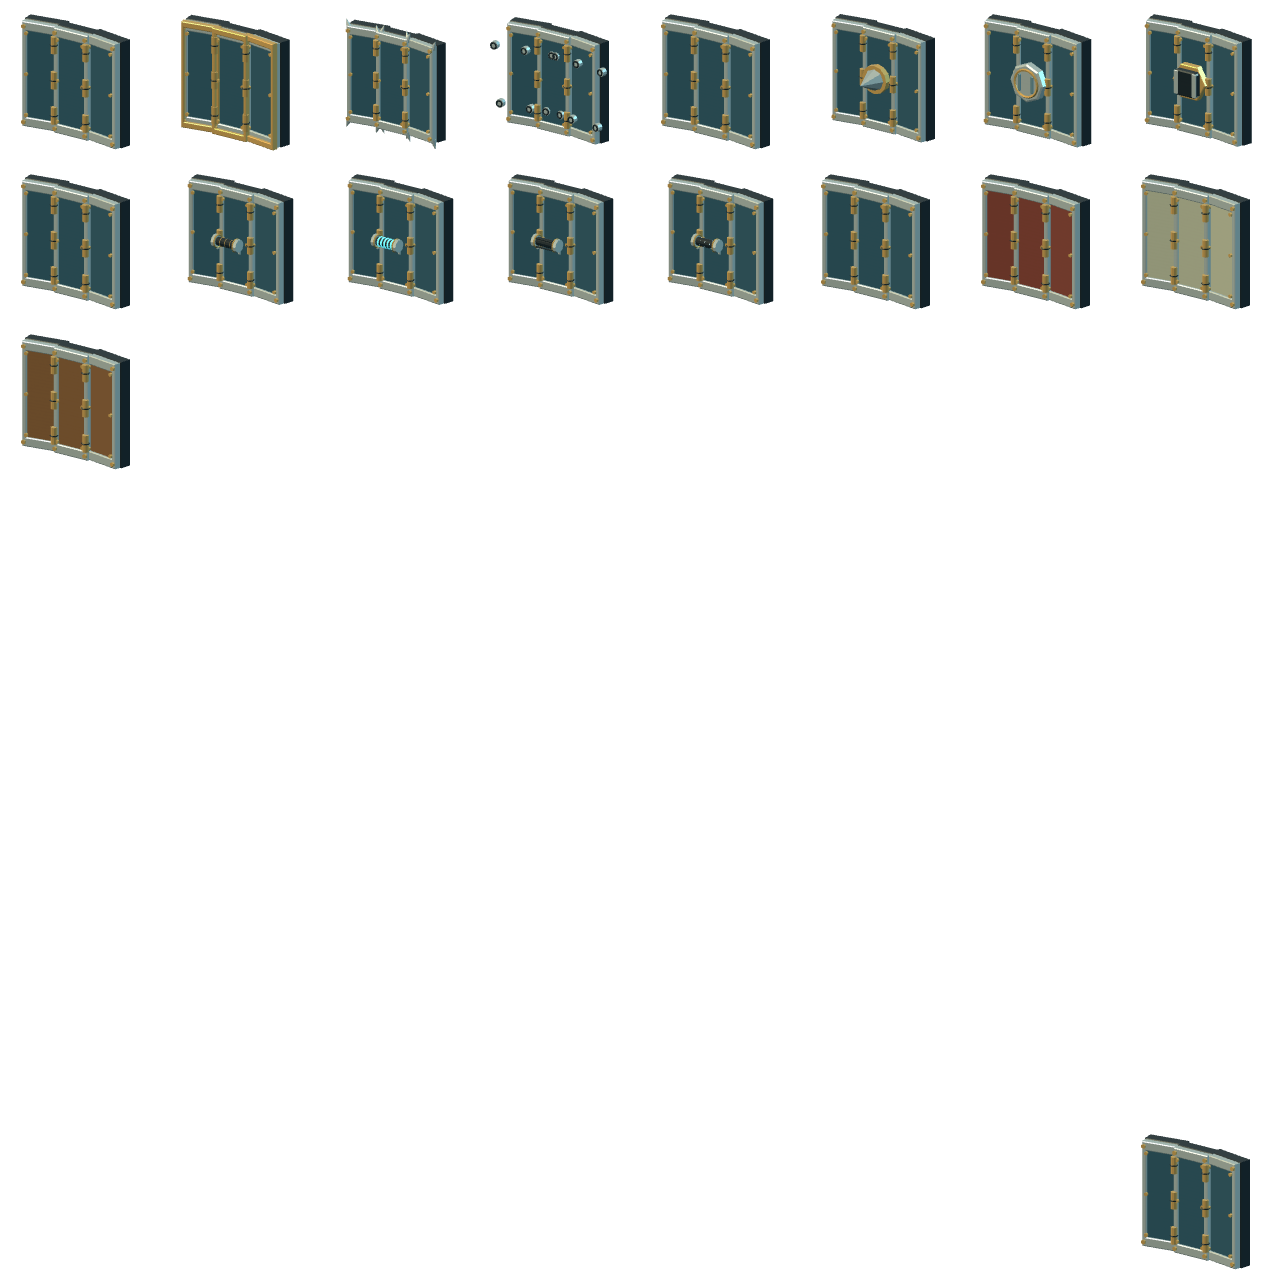
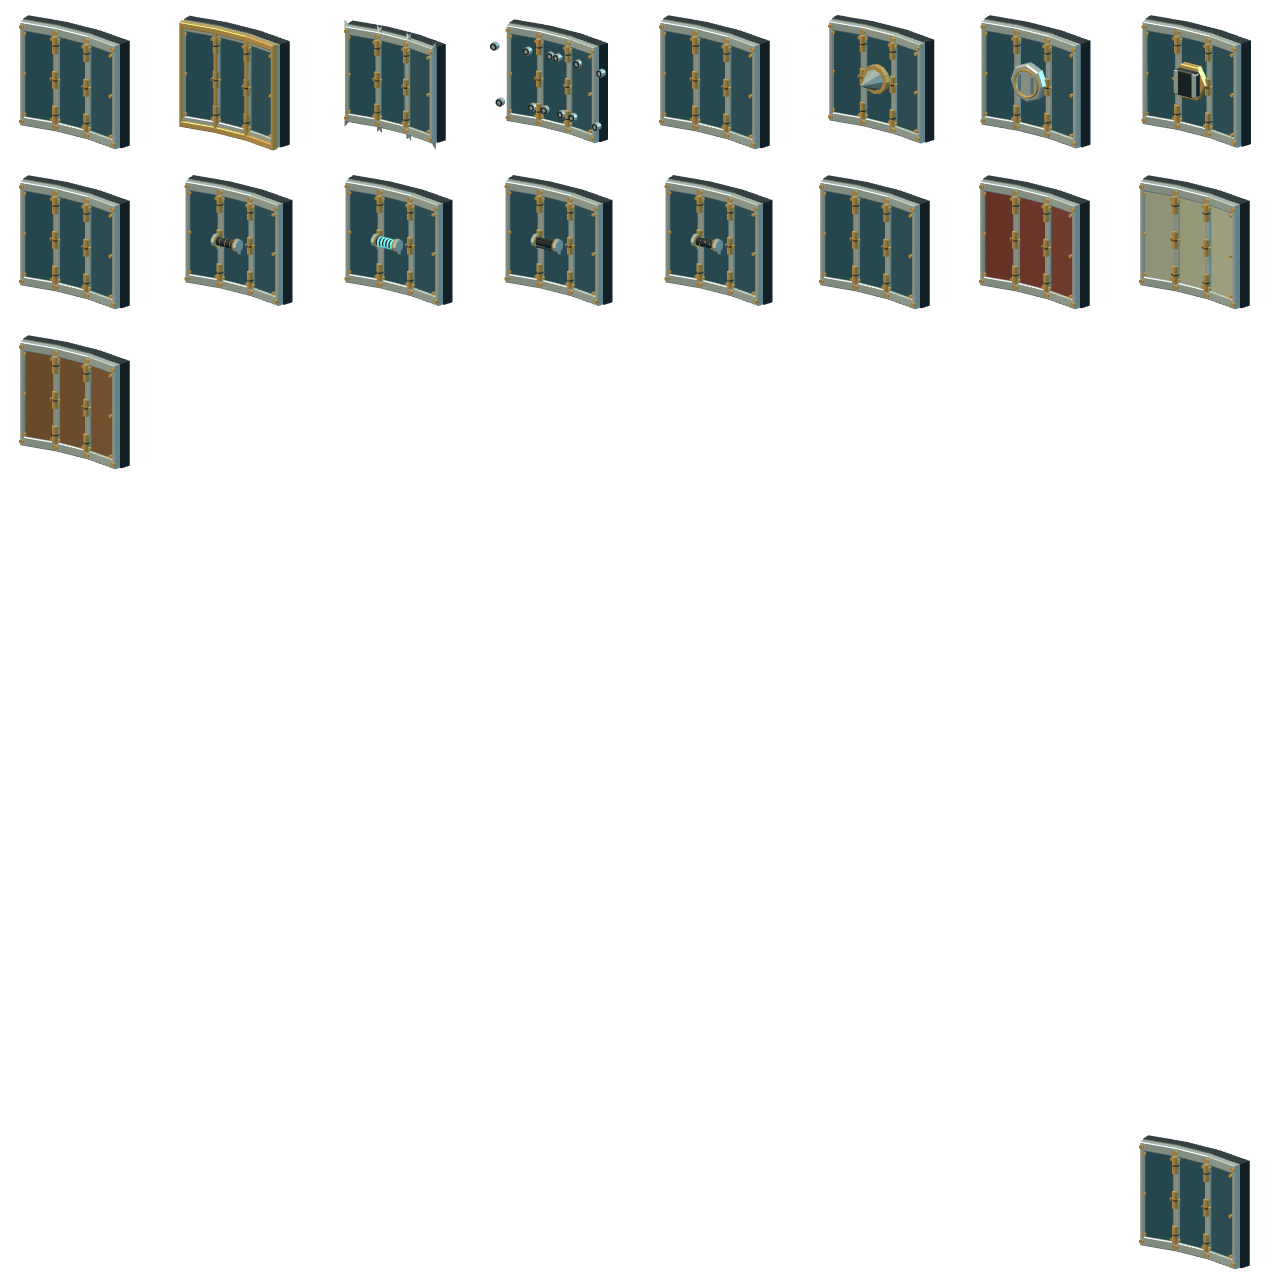
fix: make shield cores retaliate and verify browser rotation reliably

diff --git a/armory-models.js b/armory-models.js
@@ -87,7 +87,7 @@ function shieldFace(b,P,id,parts,points,kit){
 export function createShieldModel(id='s14',armory=createArmory(),{material:sharedMaterial,kit}={}){
  const parts=partConfig(armory,id),mat=sharedMaterial||createArmoryMaterials(parts.core.selected),P=armoryPalette(parts.finish.selected),root=new THREE.Group(),panels=[];root.name='Armory '+id;const b=armoryBuilder();
  if(id==='s17'){
-  for(const side of [-1,0,1]){const pb=armoryBuilder(),points=[[-.205,.55],[.205,.55],[.205,-.56],[-.205,-.56]];shieldFace(pb,P,id,parts,points,kit);for(const x of [-.16,.16])for(const y of [-.44,0,.44])pb.bolt(P.gold,x,y,.14,.021);const m=pb.finish(mat),pivot=new THREE.Group();pivot.position.x=side*.40;pivot.rotation.y=side*-.17;pivot.add(m);root.add(pivot);panels.push({pivot,side});}
+  for(const side of [-1,0,1]){const pb=armoryBuilder(),points=[[-.205,.55],[.205,.55],[.205,-.56],[-.205,-.56]];shieldFace(pb,P,id,parts,points,kit);for(const x of [-.16,.16])for(const y of [-.44,0,.44])pb.bolt(P.gold,x,y,.14,.021);const m=pb.finish(mat),pivot=new THREE.Group();pivot.position.set(side*.20,0,.14);m.position.set(side*.20,0,-.14);pivot.rotation.y=side*-.17;pivot.add(m);root.add(pivot);panels.push({pivot,side});}
   for(const side of [-1,1])for(const y of [-.38,0,.38]){b.cylinder(P.gold,side*.20,y,.14,.035,.18,'y',10);b.ring(P.dark,side*.20,y,.14,.038,.007,'y',10);}
  }else shieldFace(b,P,id,parts,shieldOutline(id),kit);
  const boss=parts.boss.selected;if(boss==='spiked'){b.cylinder(P.gold,0,.025,.17,.16,.07,'z',12);b.cone(P.steel,0,.025,.32,.13,.27,[0,0,1]);}else if(boss==='reflector'){b.poly(P.steel,circle(.19,8,0,.025),.075,.19,[],.018);b.ring(P.gold,0,.025,.24,.145,.015);for(const x of [-.08,.08])b.bevel(P.light,x,.025,.245,.025,.18,.015,.004);}else if(boss==='reactor'||id==='s16'){b.poly(P.gold,circle(.20,6,0,.025),.07,.17,[],.009);b.bevel(P.dark,0,.025,.23,.26,.25,.075,.022);for(const side of [-1,1])b.bevel(P.steel,side*.115,.025,.255,.045,.25,.045,.009);}else if(id==='s13'){b.cylinder(P.gold,0,.025,.17,.19,.055,'z',14);b.cylinder(P.steel,0,.025,.215,.13,.09,'z',12);}

diff --git a/game.js b/game.js
@@ -1501,7 +1501,14 @@ function shieldSurface(from,to){
 function shieldRespond(attacker,amount,point){
  if(!attacker||attacker.dead)return;const dir=normalize(attacker.x-player.x,attacker.z-player.z);
  if(armoryShieldStats.counter>0){const damage=Math.max(1,amount*armoryShieldStats.counter);if(attacker===boss)hitBoss(damage,dir,1,{weapon:'shield',combo:false});else hitEnemy(attacker,damage,dir,1,0,point,{weapon:'shield',combo:false});}
- armoryEffects.hit(attacker,armoryShieldStats,amount,point);
+ const core=armoryShieldStats.core,rank=armoryShieldStats.coreRank||1;
+ if(core==='arc'||core==='impact'){
+  const damage=Math.max(1,amount*(core==='arc'?.12+rank*.03:.08*rank)*(armoryShieldStats.corePower||1)),force=core==='impact'?2+rank:0;
+  const response={weapon:'shield-core',combo:false,grounded:true,preserveVelocity:core!=='impact',interrupt:core==='impact',stagger:core==='impact'?.15+rank*.055:0};
+  if(attacker===boss)hitBoss(damage,dir,force,response);else hitEnemy(attacker,damage,dir,force,0,point,response);
+  if(core==='arc'){const model=hero.userData.armoryShieldModel,origin=model.localToWorld(new THREE.Vector3(0,.025,.30));armoryEffects.visual('arc',origin,{x:attacker.x,y:(attacker.y||0)+.8,z:attacker.z});}
+ }
+ armoryEffects.hit(attacker,armoryShieldStats,amount,{x:attacker.x,y:(attacker.y||0)+.8,z:attacker.z});
 }
 function hurtPlayer(damage,dx=0,dz=0,blockable=true,contact={}){
   if(phase!=='playing'||player.invincible>0||dashTime>0||(player.y>1.6&&blockable&&!mountRide?.active))return;

diff --git a/armory-effects.js b/armory-effects.js
@@ -8,7 +8,7 @@ export class ArmoryEffects{
   const origin={x:point?.x??target.x,y:point?.y??(target.y||0)+.8,z:point?.z??target.z};
   if(profile.core==='fire'&&!target.dead&&!target.exploding){
    if(!this.burning.has(target)&&this.burning.size>=64)this.burning.delete(this.burning.keys().next().value);
-   const previous=this.burning.get(target);this.burning.set(target,{ticks:6,clock:.4,damage:Math.max(previous?.damage||0,Math.max(1,amount*(.025+rank*.008)*efficiency))});
+   const previous=this.burning.get(target);this.burning.set(target,{ticks:6,clock:previous?.clock??.4,damage:Math.max(previous?.damage||0,Math.max(1,amount*(.025+rank*.008)*efficiency))});
   }else if(profile.core==='frost'&&!target.dead){
    const previous=target.slowTime>0?(target.slowFactor||1):1;target.slowTime=Math.max(target.slowTime||0,1.1+rank*.3);target.slowFactor=Math.min(previous,Math.max(.35,.76-rank*.06));
   }else if(profile.core==='impact'&&!target.dead){target.stagger=Math.max(target.stagger||0,.15+rank*.055);}

diff --git a/progress.md b/progress.md
@@ -1,7 +1,7 @@
 Original prompt: Extract and use IRONFALL-Performance14-Full-Project.zip in E:\Smash; find failed ChatGPT/GitHub WebGPU/WASM work and fix hammer/whirlwind destruction FPS collapse plus the recorded pending updates. Keep this source folder and project structure for future work.
 
 ## Active modular armory expansion — 2026-11-08
-- User approved the generated18-item concept and explicitly instructed that selecting each must equip a real working game object. All18 constructions are authorized; do not ask for the same approval again. Reference: docs/concepts/armory-18.png. Contract and numbered silhouettes: docs/armory-spec.md. New goal began0.0%, currently90%: all18 real source models, native WebGPU equip and actual UI clicks verified; compound physical contacts and functional core/shield adapters integrated. Local581 tests, native all18 UI/Save/reload, GPU swap cleanup, installed game client and4-layout smoke pass; final remote CI/review remain.
+- User approved the generated18-item concept and explicitly instructed that selecting each must equip a real working game object. All18 constructions are authorized; do not ask for the same approval again. Reference: docs/concepts/armory-18.png. Contract and numbered silhouettes: docs/armory-spec.md. New goal began0.0%, currently90%: all18 real source models, native WebGPU equip and actual UI clicks verified; compound physical contacts and functional core/shield adapters integrated. Local583 tests, native all18 UI/Save/reload, GPU swap cleanup, installed game client and4-layout smoke pass; final remote CI/review remain.
 - Complete the verified visual-workshop checkpoint first, then implement catalog/save migration, actual meshes, modular weapon/shield parts, real IMPACT/ARC/FIRE/FROST effects, thumbnails and live gameplay proof. Preserve the earlier controls and mobile-performance backlog. No extra image generation, asset download, dependency, agent or publication approval is implied.
 - BEFORE any new armory schema writes: isolate manual localhost candidate checkpoint keys from protected `/` on the same origin. Automated test profiles are already isolated; public GitHub Pages is a different origin. Do not lose or silently replace earned saves.
 
@@ -11,6 +11,8 @@ Original prompt: Extract and use IRONFALL-Performance14-Full-Project.zip in E:\S
 - Shield triangle ray test confirms the tower's actual viewport hole; real block counter damage/FROST and rear non-response pass. Core FIRE bounded64 targets/six ticks, ARC actual LOS chains, FROST real slow and IMPACT stagger integrated. An ARC adapter plain-vector error was exposed by actual HP tests, corrected and passed on rerun. Final native render evidence, performance/limits and exact balance live in docs/armory-verification.md.
 - PR11 remains draft at checkpoint c695bf6. Checkpoint gameplay CI passed; browser CI failed with screenshot timeout masking the first error. Local tests now wait for image decode and write original failure before bounded optional screenshot. Final CI must rerun after verified push. No new public promotion is authorized.
 - A scoped relative-path edit inadvertently touched canonical models.js/CSS; only those exact owned changes were restored to HEAD with originalCRLF and canonical Git status verified clean. All candidate edits remain in isolated worktree. Do not repeat relative edits from canonical asset-import cwd.
+
+- Remote run42508975462: gameplay and4-layout smoke passed; functional workshop timed out at locator.screenshot stable-RAF wait. Replaced only this capture method with exact viewport clip plus stronger yaw/new-render/fixed-bounds/pixel assertions. Local software-WebGL and contained cleanup pass. Re-review fixed native ARC shield primary return damage and IMPACT velocity without extra counter attachment; focused actual-game test passes. Final583 tests and native all18 UI/Save/layout rerun pass. Lone-attacker shield regression fails against6b65ef6 and passes after the correction. Burn refresh retains its next tick; folding shield seam axes and source artwork are corrected. Remote rerun remains pending at this source checkpoint.
 
 ## Verified visual workshop checkpoint — 2026-11-08
 - User requests pictorial C/I controls at bottom left, proper attachment cards and illustrated controls matching the supplied approved workshop/armored-rider reference, explicit Save, fixed outer height and grounded solo player. Construction is authorized; no extra download, paid service, agent or second build.

diff --git a/docs/armory-verification.md b/docs/armory-verification.md
@@ -16,8 +16,16 @@ Garage v2 and save-store validate known parts/ranks, retain legacy progress and 
 
 Canonical evidence: E:/CodexGenerated/smash/staging/tests/armory. first-models.png is a real rendered18-model sheet, not the concept. live/ shows actual WebGPU actor equips; workshop/ covers all18 real UI clicks, component purchase/equip, independent item retention, actual material deduction, explicit Save/reload and protected-root isolation, fixed shell/no horizontal overflow at1440x1000,430x932,932x430. The final portrait image was visually inspected after fitting the complete extended weapon; no cropped ring remains.
 
-Final local suite581 passed, including the final camera framing and bridge-contact correction. The native UI rerun also covers camera fitting and earned Save/reload. Actual damage-path regression initially failed when the08 cartridge consumed the contact, then passed with gap0 / rim100 / dual pistons120 / flat90 / spike118. Tower ray hole, shield frost/counter, actual burn/ARC HP and round cleanup tests pass. The classic controls, collision, building destruction, bicycle aim/jump and mounts retain their regression coverage.
+Final local suite583 passed, including the final camera framing and bridge-contact correction. The native UI rerun also covers camera fitting and earned Save/reload. Actual damage-path regression initially failed when the08 cartridge consumed the contact, then passed with gap0 / rim100 / dual pistons120 / flat90 / spike118. Tower ray hole, shield frost/counter, actual burn/ARC HP and round cleanup tests pass. The classic controls, collision, building destruction, bicycle aim/jump and mounts retain their regression coverage.
 
 Native Windows Chrome WebGPU render-only comparison,1280x900, same warmed LV30 city/camera, last120 of150 RAF frames: unthrottled p95 classic4.3ms,11+17 4.3ms,12+16 8.2ms; CPUx4 p95 classic25.0ms,11+17 25.0ms,12+16 20.9ms. Short samples vary; these are render engineering observations, not sustained combat/mobile acceptance. After36 replacements resources stayed403 geometries/17 textures. CPU/GPU inventory is recorded in earlier workshop evidence; inventory alone does not certify a browser adapter. Physical iPhone14ProMax is unavailable by user choice; do not ask to connect it again.
 
 Installed develop-web-game client passed on native WebGPU with339 WASM calls/zero fallbacks and sampled p954.3ms; the actual screenshot/state were inspected. Refreshed smoke passed all4 layouts. Final CI and reviewable PR push remain pending. Prior PR11 checkpoint browser CI failed with a screenshot timeout hiding the original error. The test now waits for actual image decode and records the first error before a bounded optional failure screenshot. Final CI result must be reported, never inherited from the checkpoint. Sustained mobile FPS, older cold/retry spikes and long-session JS heap growth remain open separately.
+
+## Final review corrections
+
+Run42508975462 passed gameplay and all4 remote smoke layouts. Its functional workshop step timed out in Playwright locator.screenshot waiting for stable RAFs, after the full-page screenshot succeeded. The harness now uses an exact viewport clip and additionally asserts fixed canvas bounds, changed real turntable yaw, a new render and changed pixels. Rotation proof is preserved and strengthened; game timing/animation are unchanged. The matching Windows software-WebGL test passed after this correction. Its browser teardown now receives a bounded2-second quiet period in the local contained job wrapper; containment stays enabled.
+
+A separate functional review found that a native ARC shield with no counter attachment only chained to secondary targets. It now deals real primary return damage to a lone attacker and draws the shield-to-attacker arc; IMPACT shields produce actual outward velocity/stagger without requiring another purchased counter part. A direct actual-game regression covers both. No gameplay effect was removed to pass CI.
+
+The corrected shield test fails against game.js at6b65ef6 and passes against the candidate using the same current fixture (SMASH_TEST_GAME_REF). Final583 regressions pass. The three-leaf shield now rotates about the actual seam-pin axes; regenerated source-pinned artwork matches it. Burn refresh preserves the next tick instead of postponing all burn damage during rapid successive hits. Final native all18 UI/Save/layout rerun passes after these changes.
